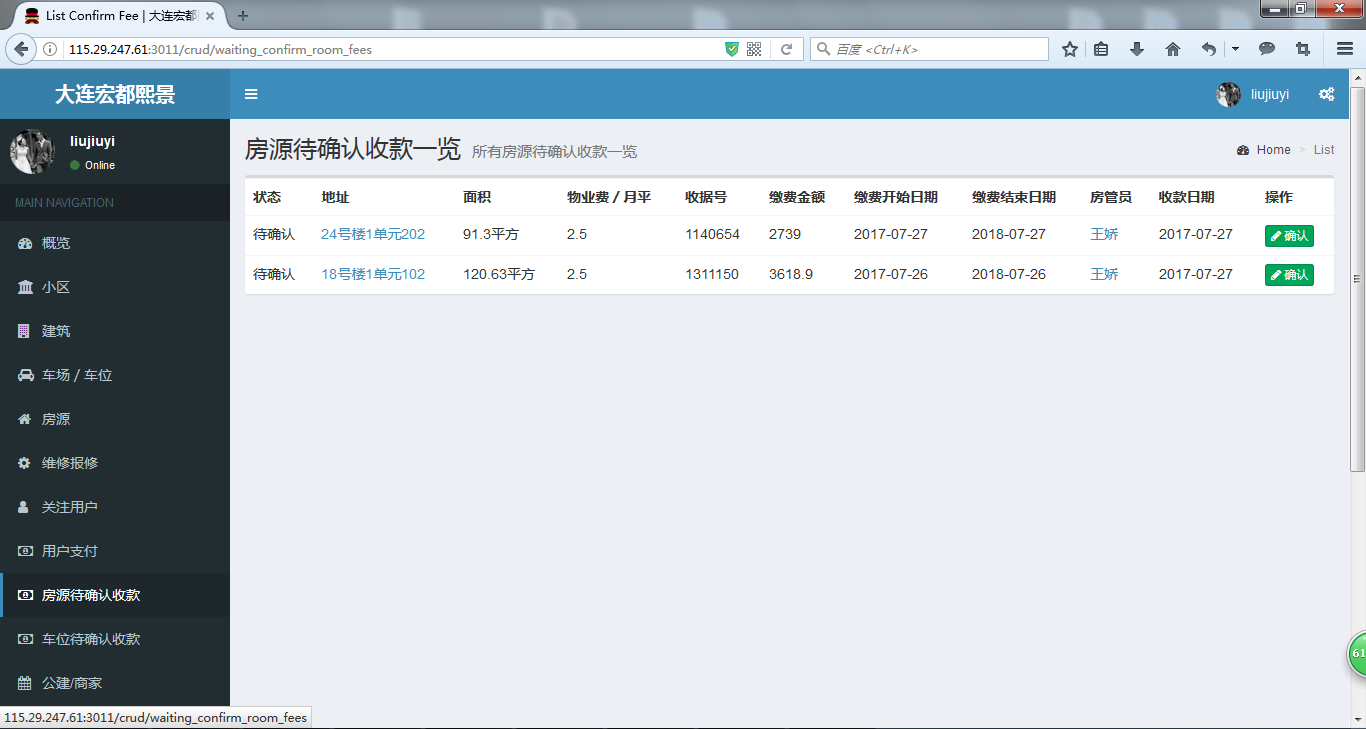
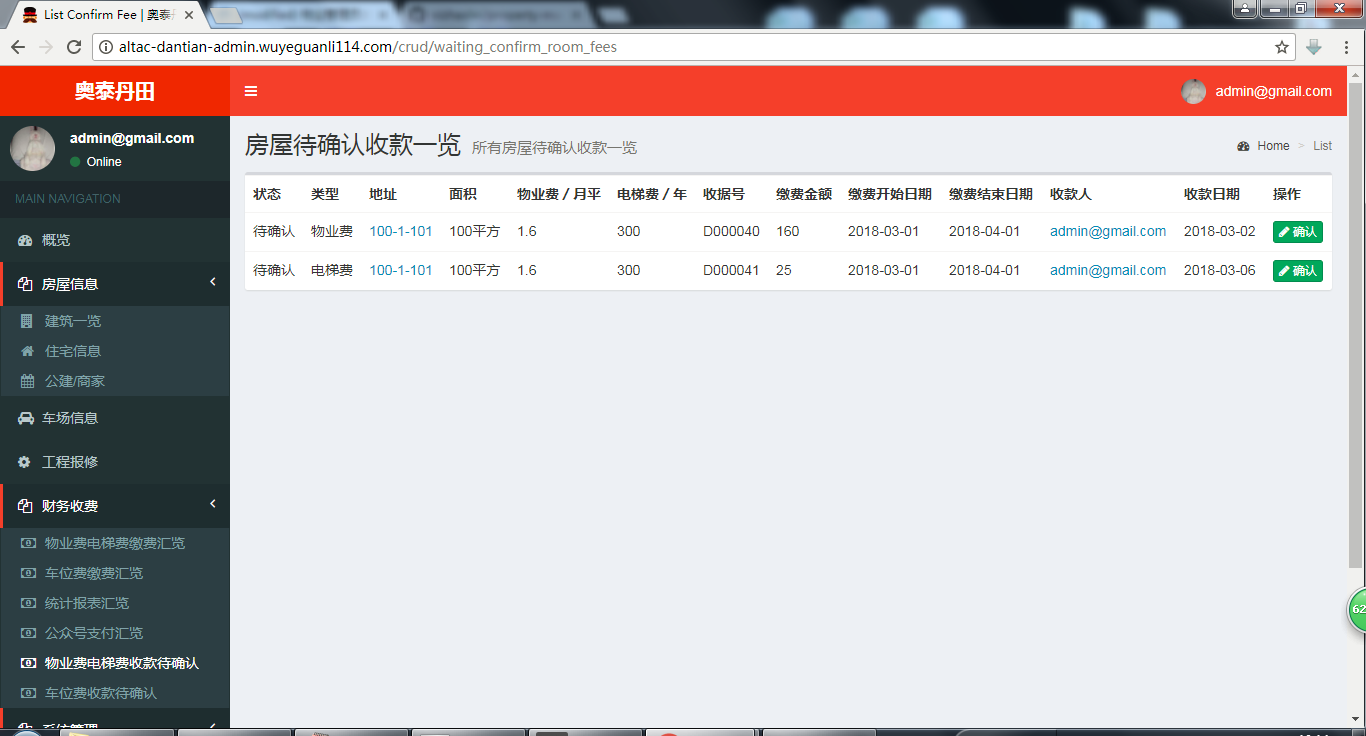
Updates assets/待确认缴费.png
Auto commit by GitBook Editor

Changed region(s): [[0.0, 0.0, 1.0, 1.0], [0.1845, 0.3621, 0.4305, 0.3923], [0.4919, 0.3621, 0.5842, 0.3923]]

diff --git a/物业管理员使用指南.md b/物业管理员使用指南.md
@@ -63,8 +63,11 @@
 
 1，选择需要缴费业主的房子，选择缴费一览TAB，点击相应的缴费按钮开始缴费
 
-2，财务人员,确认缴费，点击房源待确认缴费可查看待确认的列表  
-[![](/assets/个人信息-3.png "待确认")](/assets/个人信息-3.png)待确认
+2，财务人员,确认缴费，点击房源待确认缴费可查看待确认的列表
+
+**缴费界面**![](/assets/缴费.png)![](/assets/待确认缴费.png)
+
+待确认
 
 也可以收取车位的租金或者管理费
 
